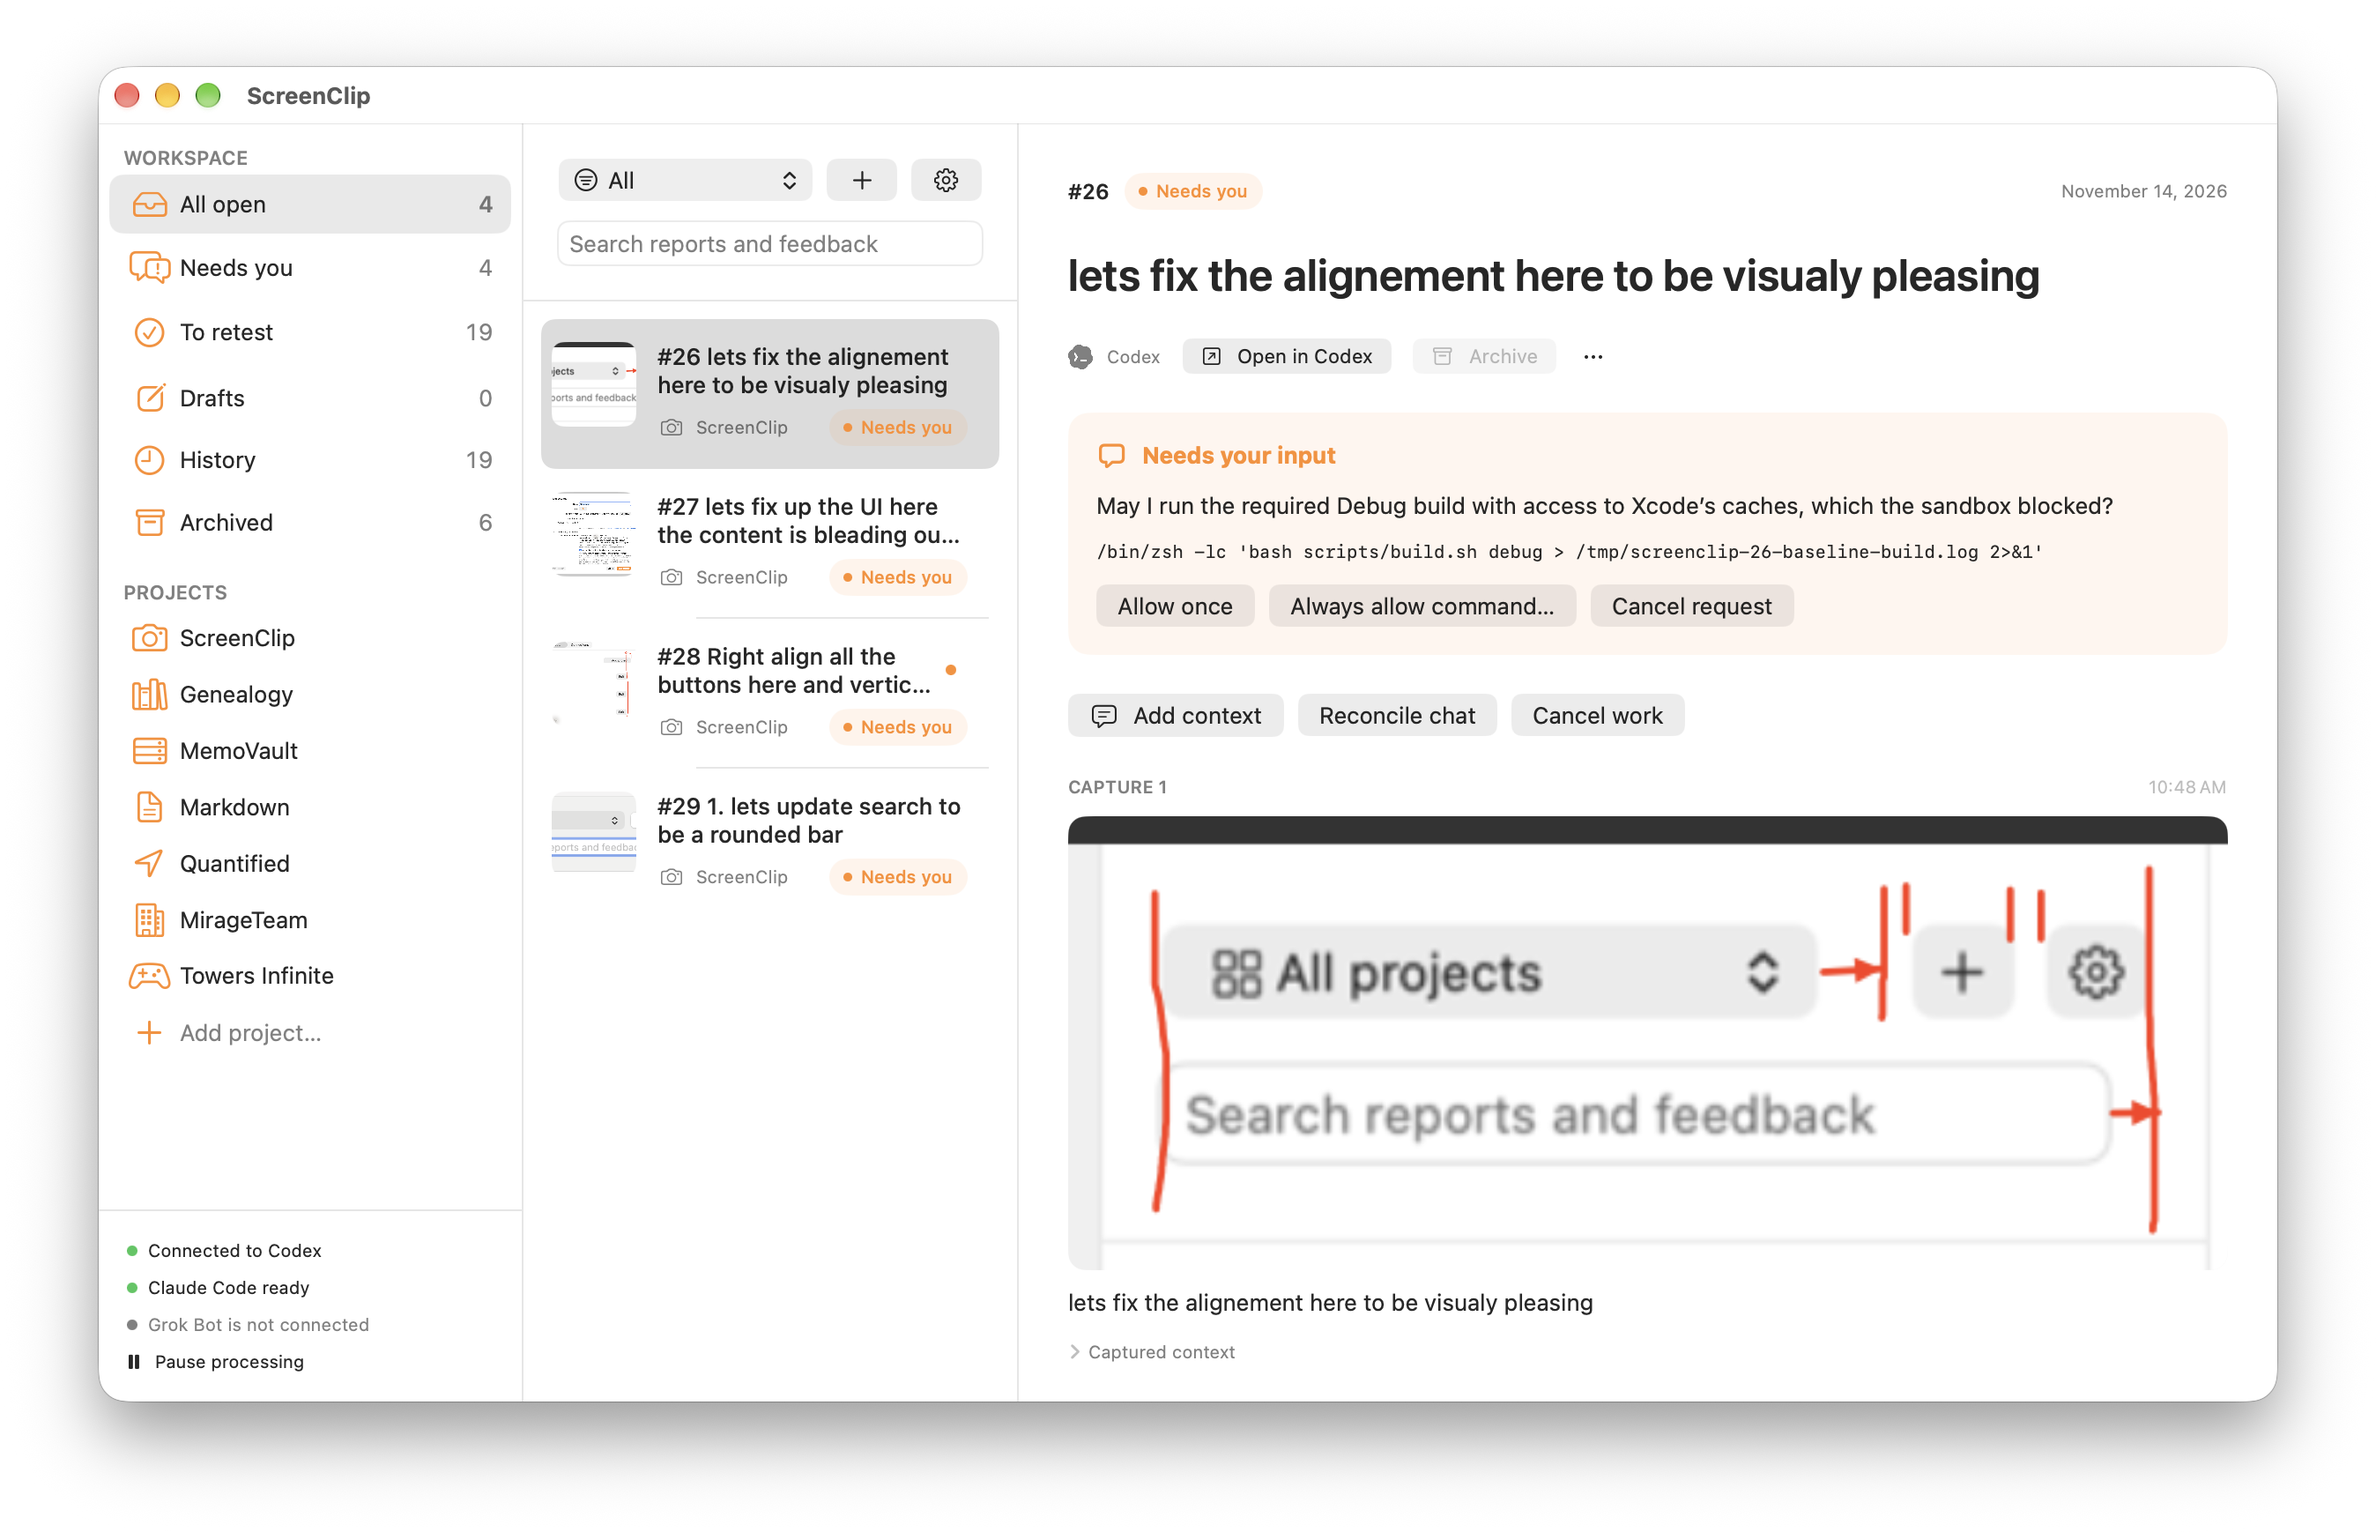
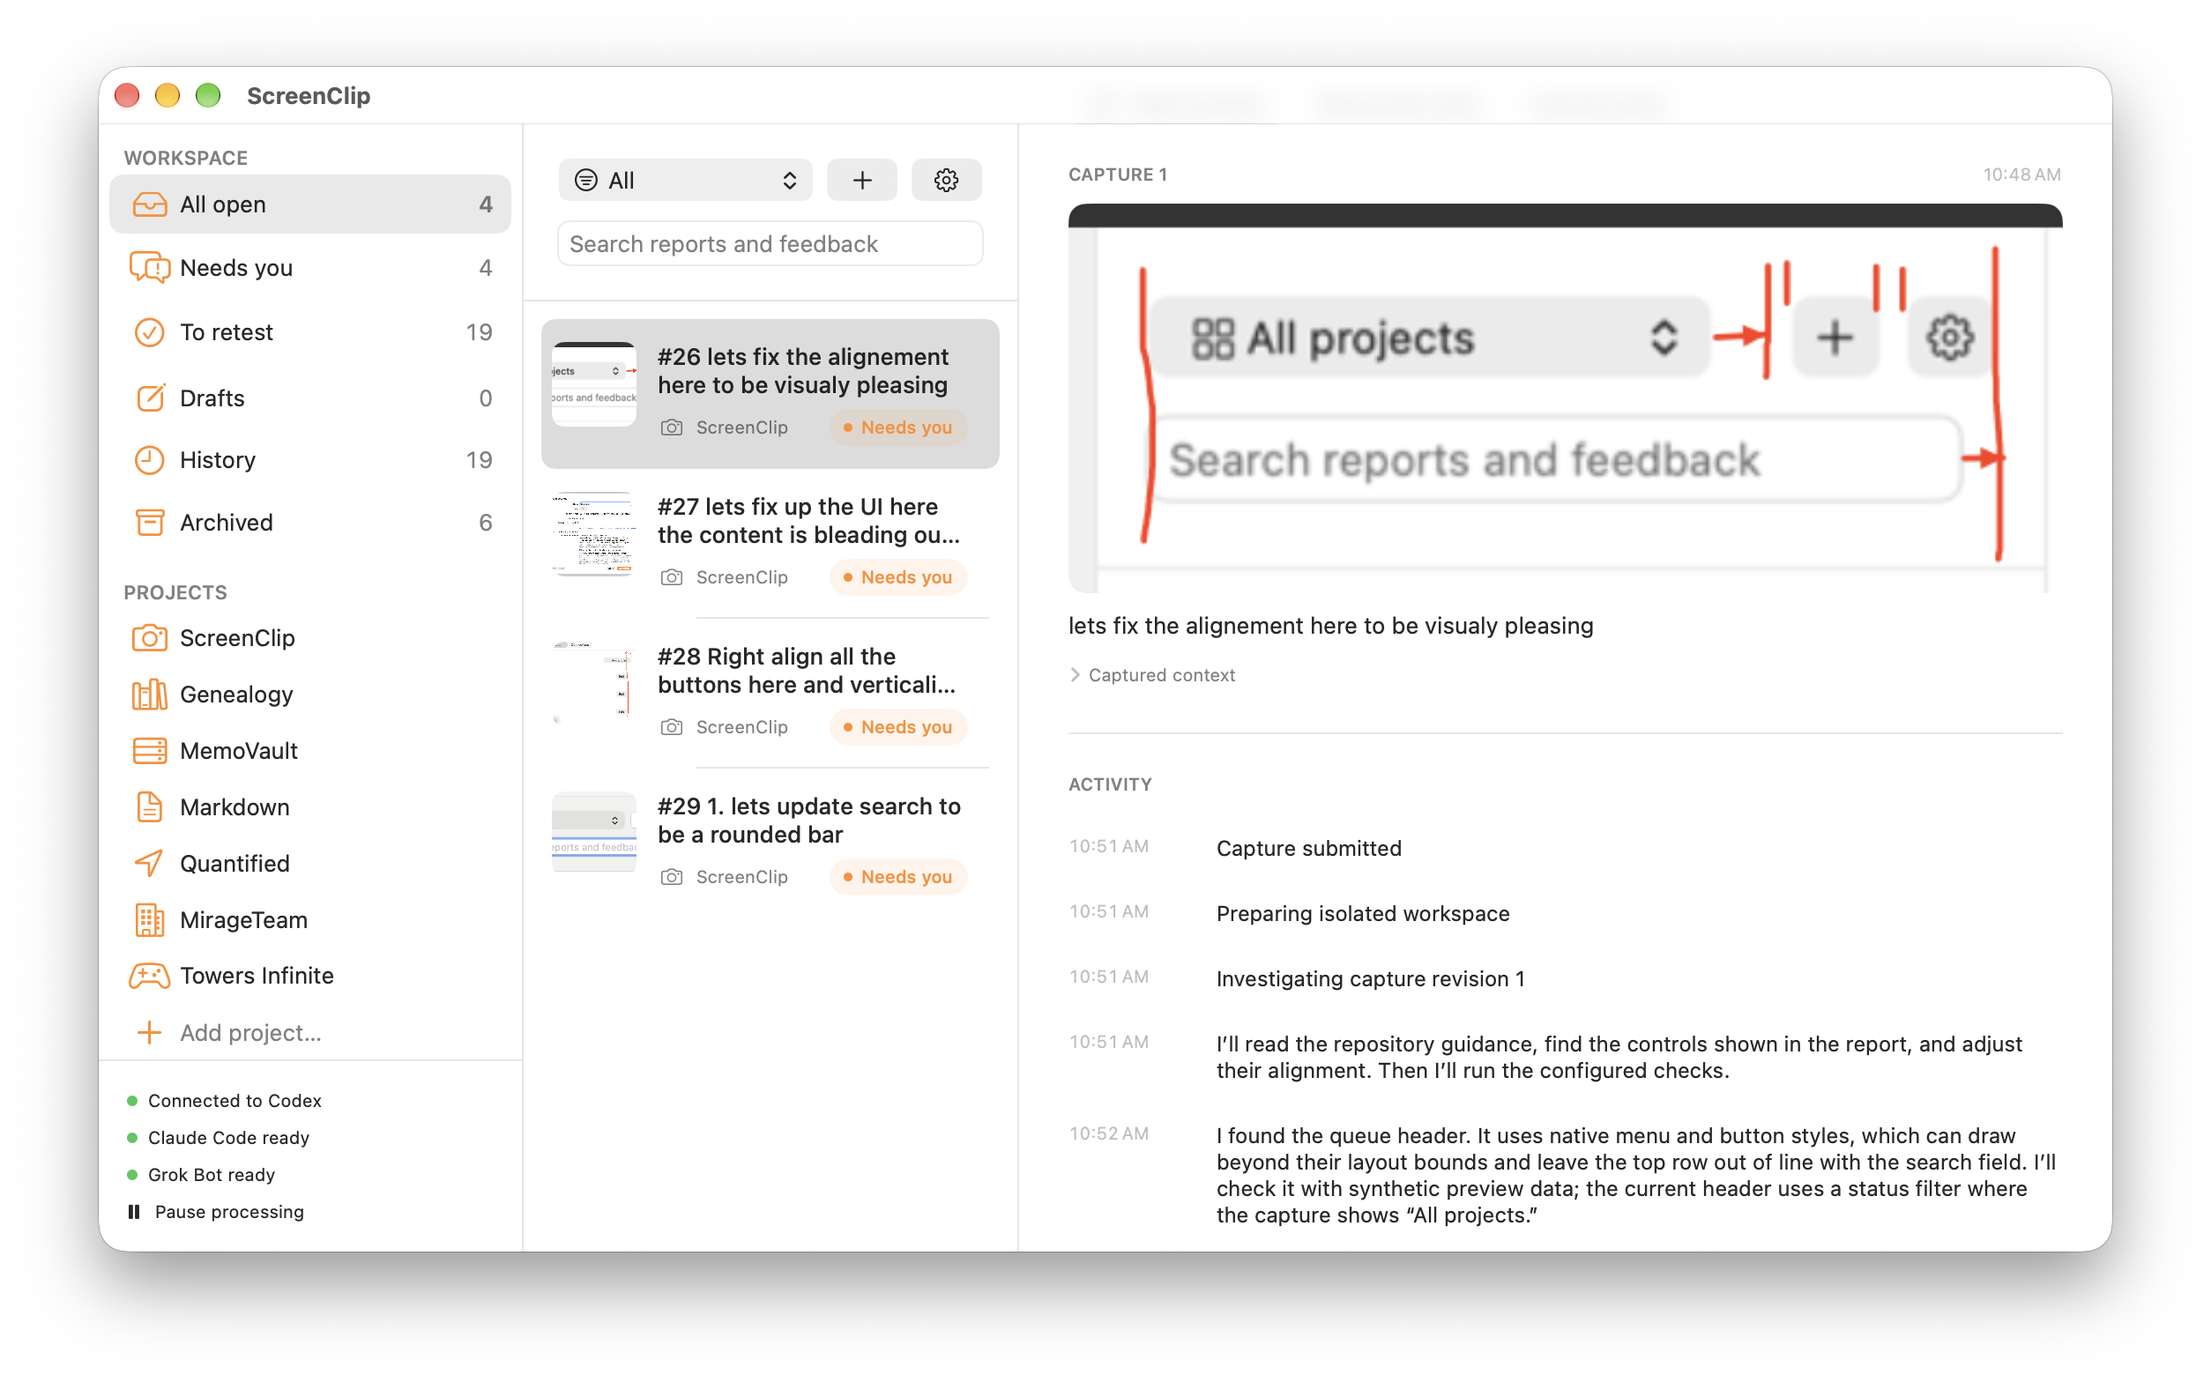
Update README app screenshot

diff --git a/README.md b/README.md
@@ -7,7 +7,7 @@
 A native macOS menu bar app for the small things you notice: a clipped button, confusing copy, a missing detail, or an idea. Grab a screenshot, add a note if you want one, and keep going. ScreenClip keeps the image and the context together. Codex, Claude Code, or Grok Bot does the follow-up.
 
 <p align="center">
-  <img src="docs/screenshots/app-queue.png" width="1000" alt="ScreenClip's report queue, showing projects, reports, an agent request, and an annotated capture.">
+  <img src="docs/screenshots/app-queue.png" width="1000" alt="ScreenClip's report queue, showing projects, an annotated capture, and agent activity.">
 </p>
 
 <p align="center"><em>Keep reports, captures, and agent conversations together.</em></p>
